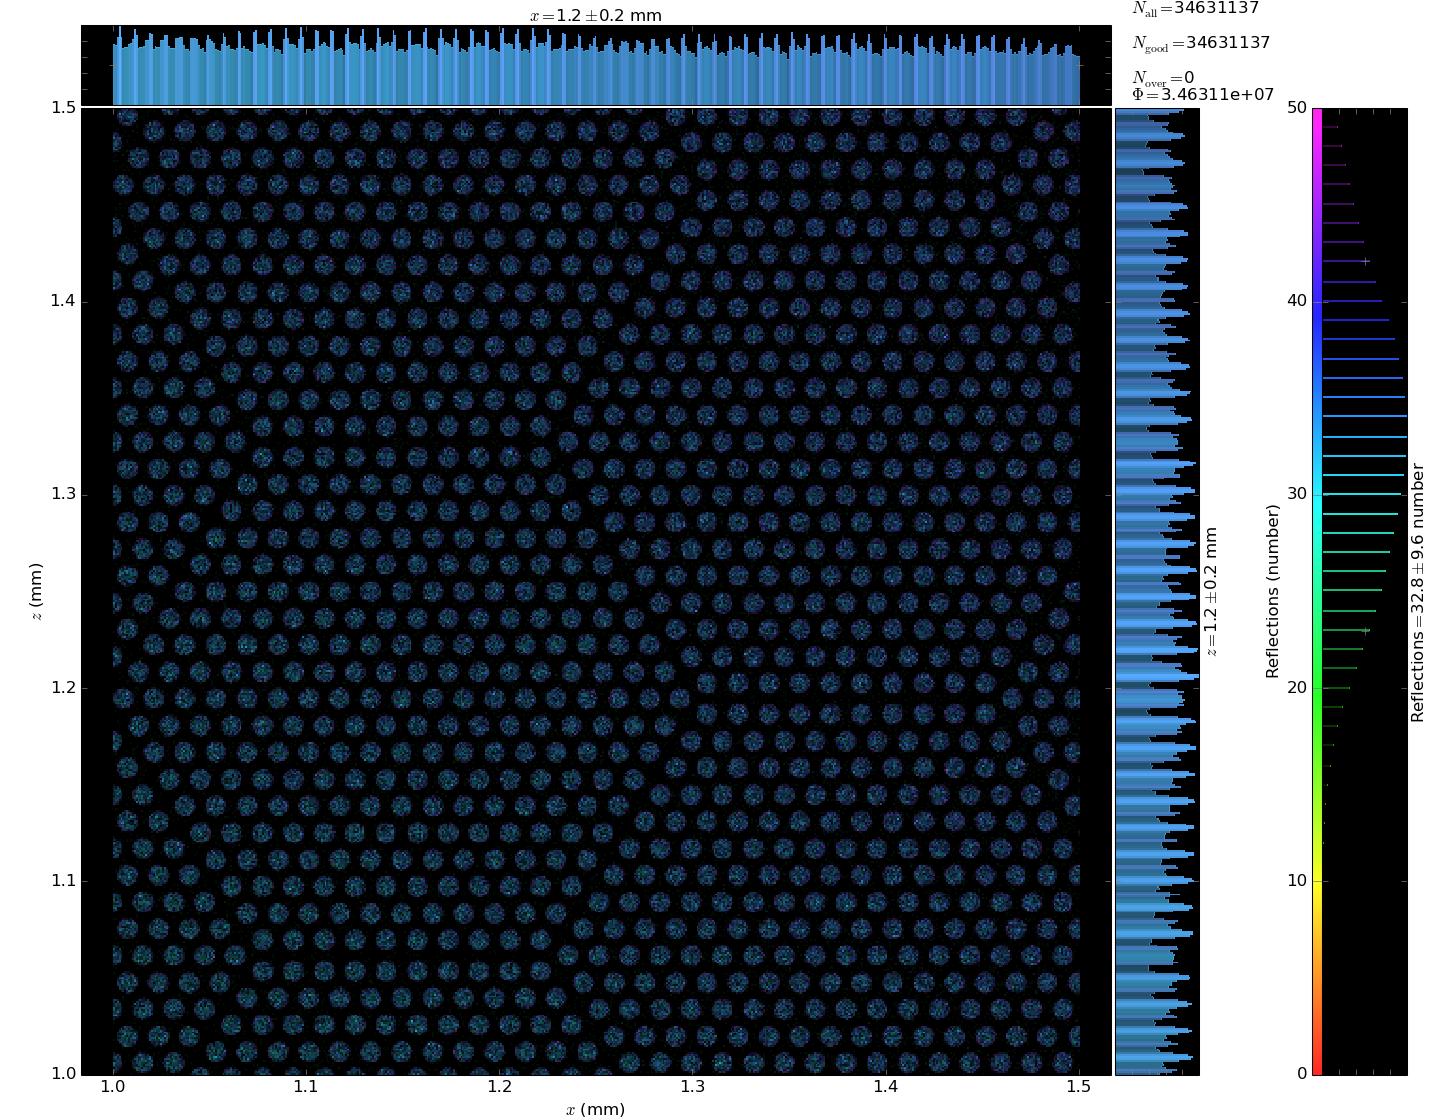
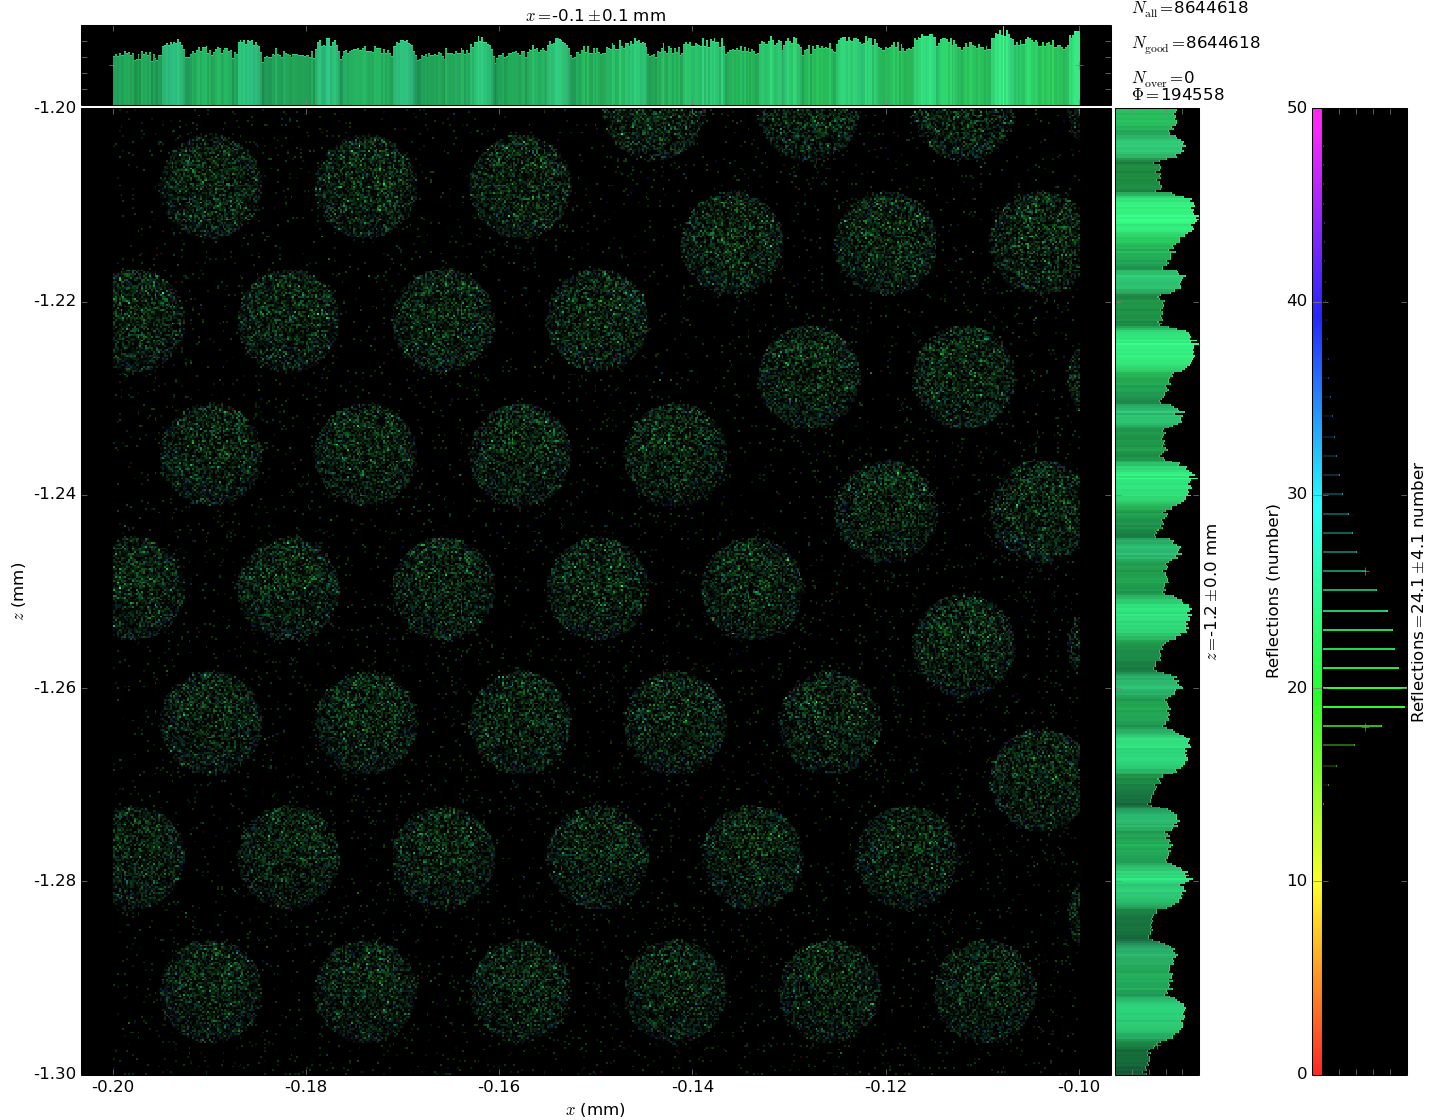
Add more photons to the dibundle structure
- capillary radius: 0.01 mm (10um)
- 662 capillaries
- golden

diff --git a/main.py b/main.py
@@ -55,7 +55,7 @@ def create_beam(dirname):
     # Number of avaiable cores
     setup.set_processes(8)
     # Number of runs
-    setup.set_repeats(32)
+    setup.set_repeats(64)
     # Photon storage dirctory
     setup.set_folder(dirname)
 
@@ -128,4 +128,4 @@ if __name__ == '__main__':
 
     # Choose path for storage
     directory = 'part_lens_gold'
-    show_or_create(directory)
+    create_beam(directory)
